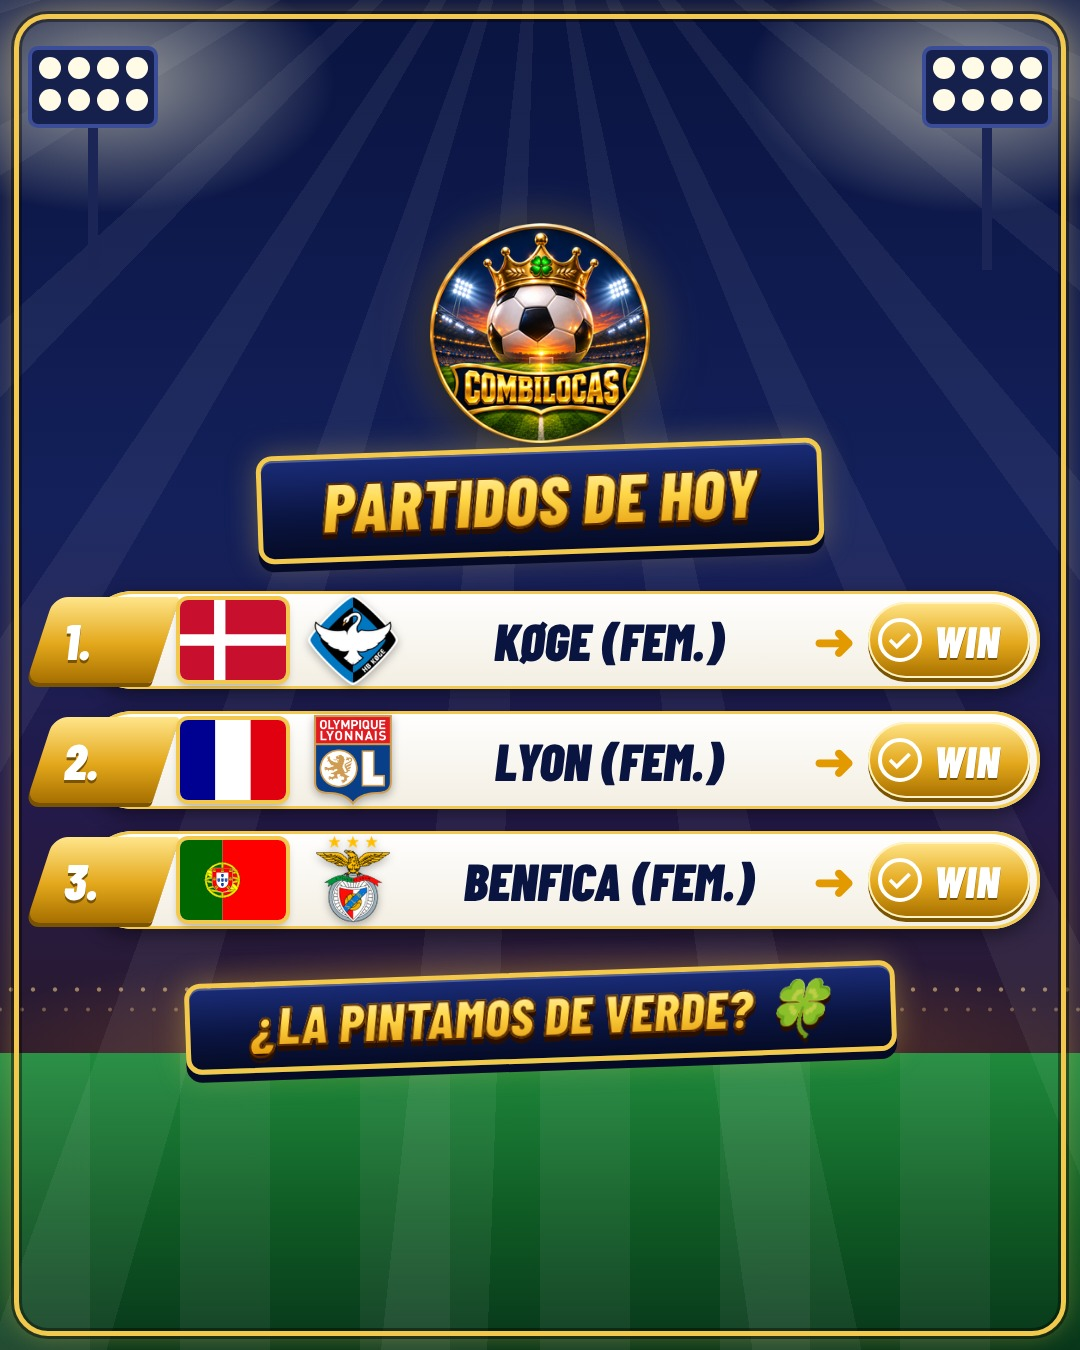
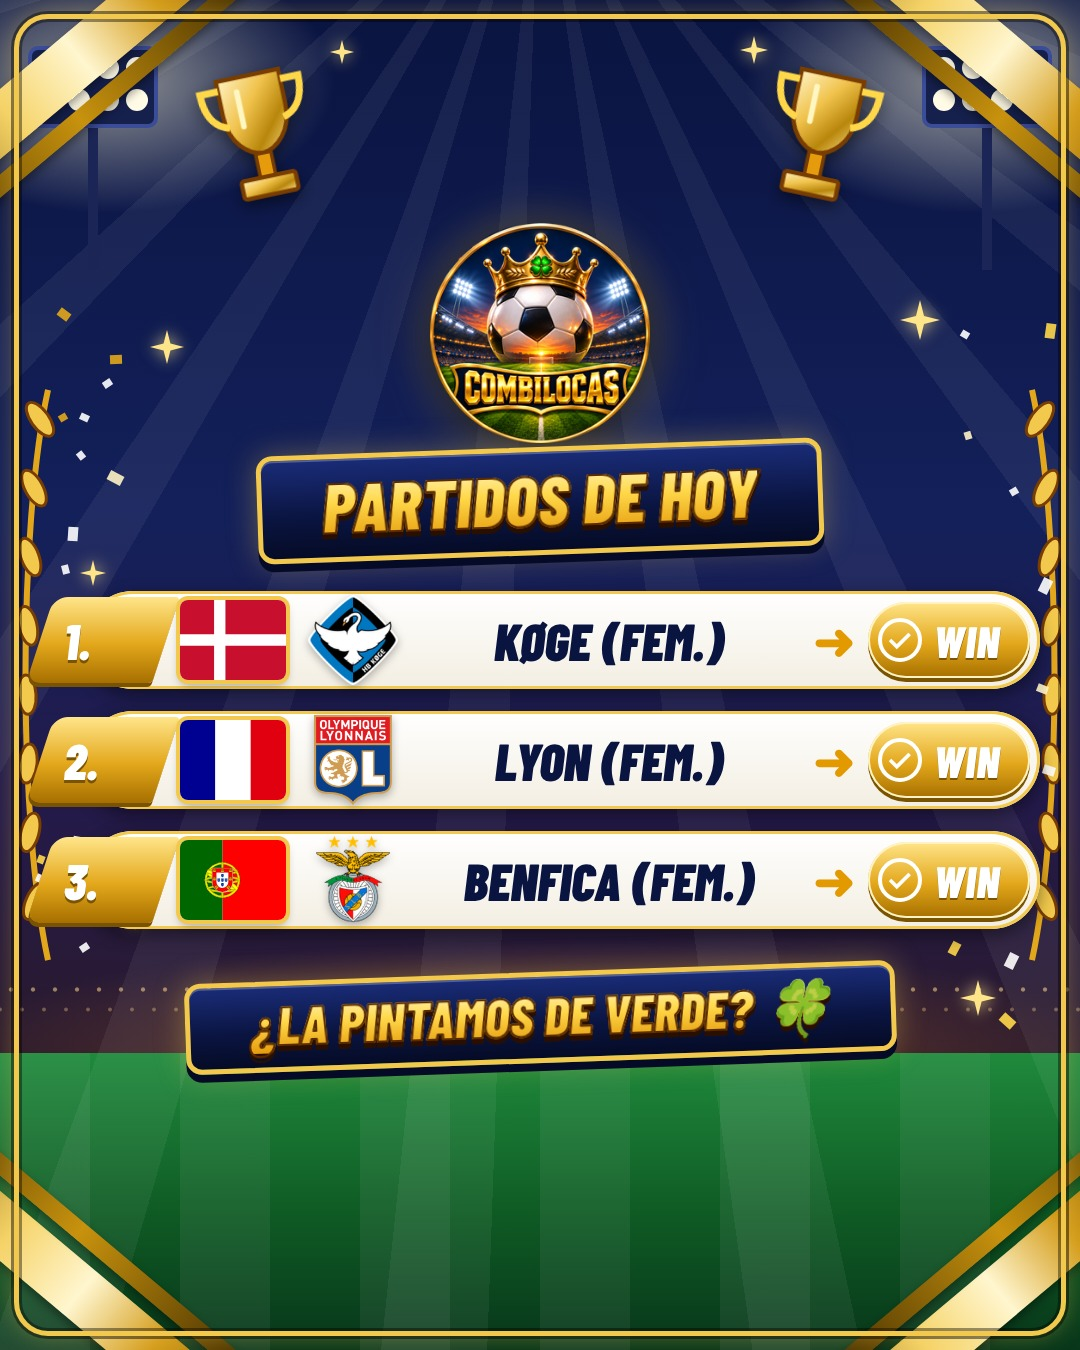
Fotos mas cargadas: cintas doradas, laureles, copas, destellos y confeti; banderas en el texto de los ganadores de esta noche
Claude-Session: https://claude.ai/code/session_01H8yo2hvFsocWgiXX8LNWo6

diff --git a/fotos.py b/fotos.py
@@ -136,11 +136,67 @@ def _tam(texto, grande, ancho_letras):
     return grande if n <= ancho_letras else max(int(grande * ancho_letras / n), int(grande * .55))
 
 
+# 11/11 (Marcos: «muy simple, antes tenía muchas cosas»): adornos alrededor, como la plantilla oro de antes
+COPA = ('<svg viewBox="0 0 170 220" width="{w}" style="{e}"><path d="M40 20 H130 V70 C130 110 105 130 85 132 C65 130 40 110 40 70 Z" '
+        'fill="url(#oroG)" stroke="#7a3d00" stroke-width="6"/><path d="M40 34 H14 C14 70 30 84 46 88 M130 34 H156 C156 70 140 84 124 88" '
+        'fill="none" stroke="#ffd84a" stroke-width="10"/><rect x="74" y="132" width="22" height="34" fill="#e59b0c" stroke="#7a3d00" '
+        'stroke-width="5"/><rect x="46" y="166" width="78" height="26" rx="4" fill="url(#oroG)" stroke="#7a3d00" stroke-width="6"/>'
+        '<path d="M66 40 L66 90" stroke="#fff6c2" stroke-width="8" stroke-linecap="round"/>'
+        '<defs><linearGradient id="oroG" x1="0" y1="0" x2="1" y2="1"><stop offset="0" stop-color="#fff3c4"/>'
+        '<stop offset=".4" stop-color="#f0c24b"/><stop offset=".7" stop-color="#b8860b"/><stop offset="1" stop-color="#ffe08a"/>'
+        '</linearGradient></defs></svg>')
+LAUREL = ('<svg viewBox="0 0 60 600" width="60" height="{h}" preserveAspectRatio="none" style="{e}">'
+          '<path d="M40 590 C10 450 10 150 40 10" fill="none" stroke="#e3a71b" stroke-width="6"/>'
+          '<g fill="#f2c94c" stroke="#7a3d00" stroke-width="3">'
+          + "".join(f'<ellipse cx="{cx}" cy="{cy}" rx="9" ry="20" transform="rotate({r} {cx} {cy})"/>'
+                    for cx, cy, r in ((32, 40, -35), (26, 110, -28), (22, 180, -20), (20, 250, -12), (19, 320, -4),
+                                      (20, 390, 6), (22, 460, 14), (27, 530, 24))) + "</g></svg>")
+DESTELLO = ('<svg viewBox="0 0 40 40" width="{t}" height="{t}" style="{e}"><path d="M20 0 L24 16 L40 20 L24 24 L20 40 '
+            'L16 24 L0 20 L16 16 Z" fill="#ffe58a"/></svg>')
+
+
+def decoracion(alto=1350, verde=False):
+    """Capa de adornos detrás del contenido: cintas doradas en las esquinas, laureles, copas, destellos y confeti."""
+    import random
+    rnd = random.Random(7)   # siempre igual
+    cinta = ("position:absolute;width:460px;height:{h}px;background:{b};box-shadow:0 4px 10px rgba(0,0,0,.4);"
+             "z-index:0;{p}")
+    oro = "linear-gradient(90deg,#7a5300,#f6d46a 30%,#fff6cf 50%,#d39b1a 70%,#7a5300)"
+    osc = "linear-gradient(90deg,#3a2700,#c8920e,#3a2700)"
+    acento = "#3ee07a" if verde else "#ffd84a"
+    out = []
+    for lado, rot in (("left", -40), ("right", 40)):
+        for y, h, b in ((70, 54, oro), (150, 18, osc)):
+            out.append(f'<div style="{cinta.format(h=h, b=b, p=f"top:{y - 40}px;{lado}:-150px;transform:rotate({rot}deg)")}"></div>')
+            out.append(f'<div style="{cinta.format(h=h, b=b, p=f"bottom:{y - 40}px;{lado}:-150px;transform:rotate({-rot}deg)")}"></div>')
+    largo = alto - 760
+    out.append(LAUREL.format(h=largo, e=f"position:absolute;left:8px;top:380px;z-index:0"))
+    out.append(LAUREL.format(h=largo, e=f"position:absolute;right:8px;top:380px;z-index:0;transform:scaleX(-1)"))
+    out.append(COPA.format(w=120, e="position:absolute;left:200px;top:60px;z-index:0;transform:rotate(-12deg);"
+                                     "filter:drop-shadow(0 6px 8px rgba(0,0,0,.5))"))
+    out.append(COPA.replace('id="oroG"', 'id="oroG2"').replace("url(#oroG)", "url(#oroG2)").format(
+        w=120, e="position:absolute;right:200px;top:60px;z-index:0;transform:rotate(12deg);filter:drop-shadow(0 6px 8px rgba(0,0,0,.5))"))
+    for x, y, t in ((150, 330, 34), (900, 300, 40), (80, 560, 26), (990, 640, 30), (120, 900, 30), (960, 980, 36),
+                    (330, 40, 24), (740, 36, 28)):
+        out.append(DESTELLO.format(t=t, e=f"position:absolute;left:{x}px;top:{y * alto // 1350}px;z-index:0;"
+                                          "filter:drop-shadow(0 0 8px rgba(255,230,140,.9))"))
+    colores = ["#ffd84a", "#fff3c4", acento, "#e3a71b", "#ffffff"]
+    for _ in range(26):
+        x, y = rnd.randint(40, 1040), rnd.randint(260, alto - 260)
+        if 140 < x < 940:   # el confeti solo por los lados, sin tapar las filas
+            x = rnd.choice((rnd.randint(30, 130), rnd.randint(950, 1050)))
+        t = rnd.randint(8, 16)
+        out.append(f'<span style="position:absolute;left:{x}px;top:{y}px;width:{t}px;height:{t // 2 + 3}px;'
+                   f'background:{rnd.choice(colores)};transform:rotate({rnd.randint(0, 180)}deg);z-index:0;opacity:.9"></span>')
+    return "".join(out)
+
+
 def _html(cuerpo, w, h, verde=False, extra=""):
     return (f"<!doctype html><html><head><meta charset='utf-8'><style>{base(h, verde)}"
             f"*{{box-sizing:border-box}} body{{margin:0;width:{w}px;min-height:{h}px;font-family:{LETRA};color:#fff;"
-            f"display:flex;flex-direction:column;align-items:center;position:relative}}{extra}</style></head>"
-            f"<body>{cuerpo}</body></html>")
+            f"display:flex;flex-direction:column;align-items:center;position:relative;overflow:hidden}}{extra}"
+            f"body>*{{position:relative;z-index:1}}</style></head>"
+            f"<body>{decoracion(h, verde) if w == 1080 else ''}{cuerpo}</body></html>")
 
 
 def _cinta(texto, tam=54):
